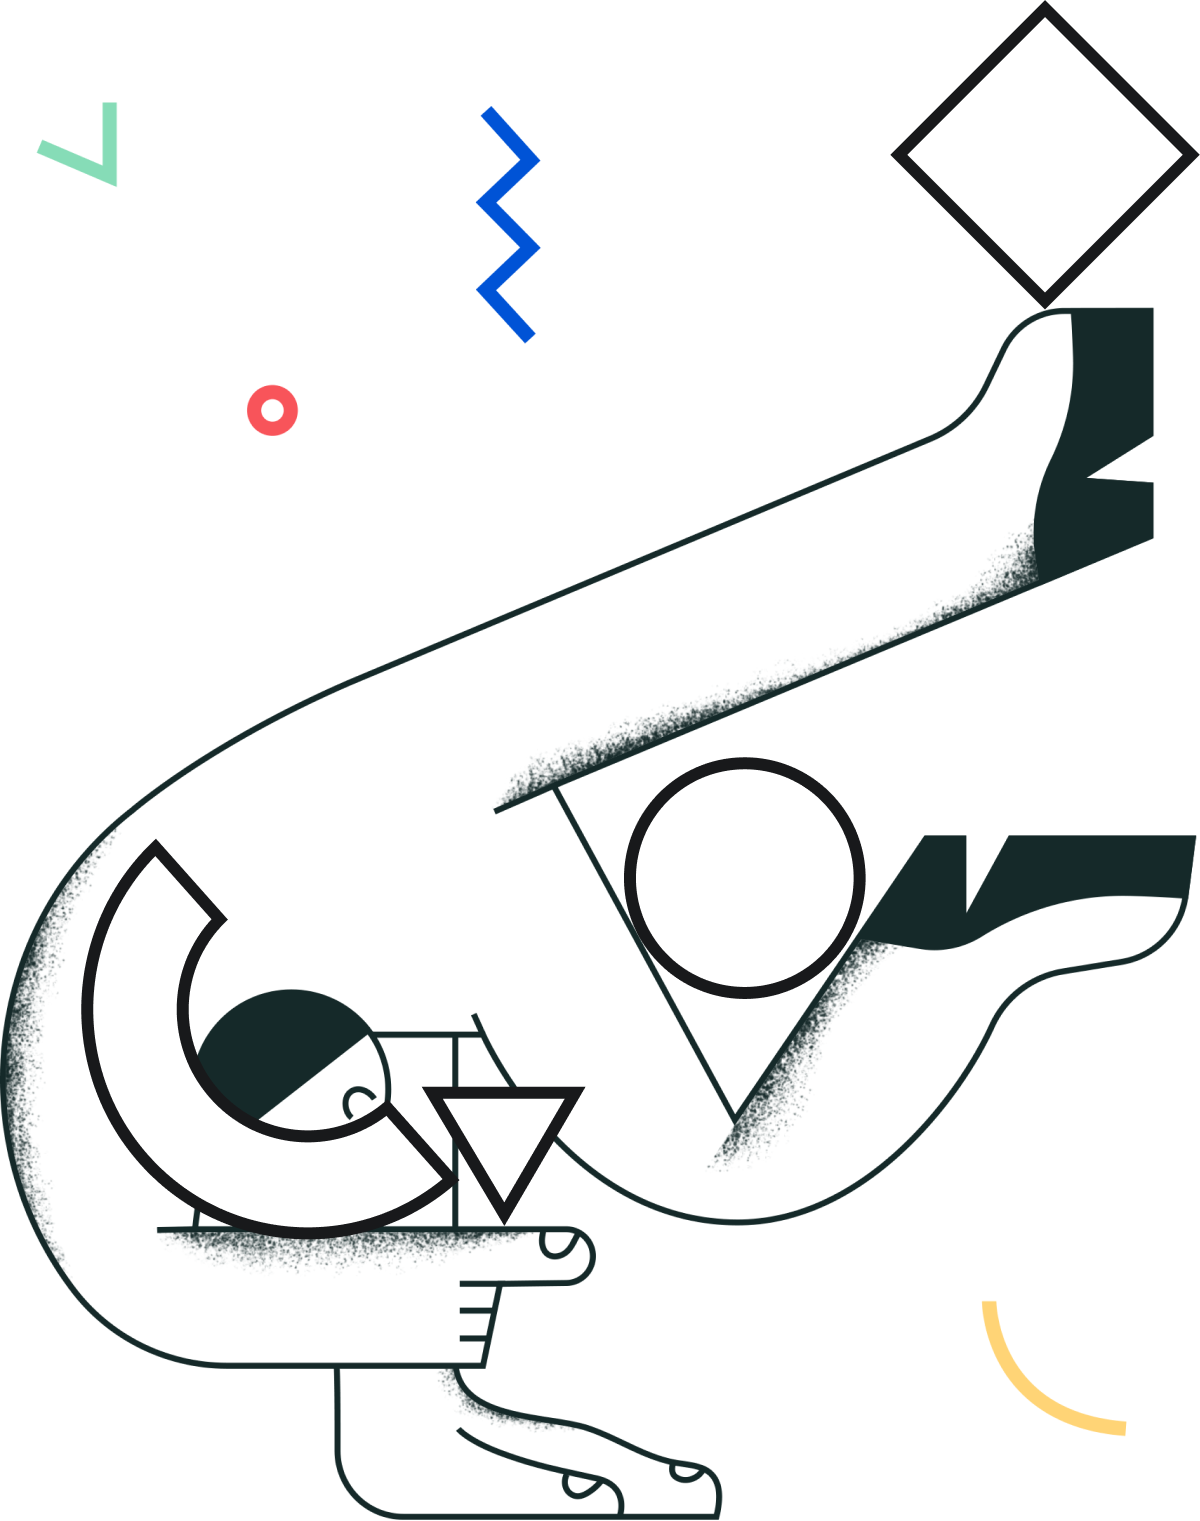
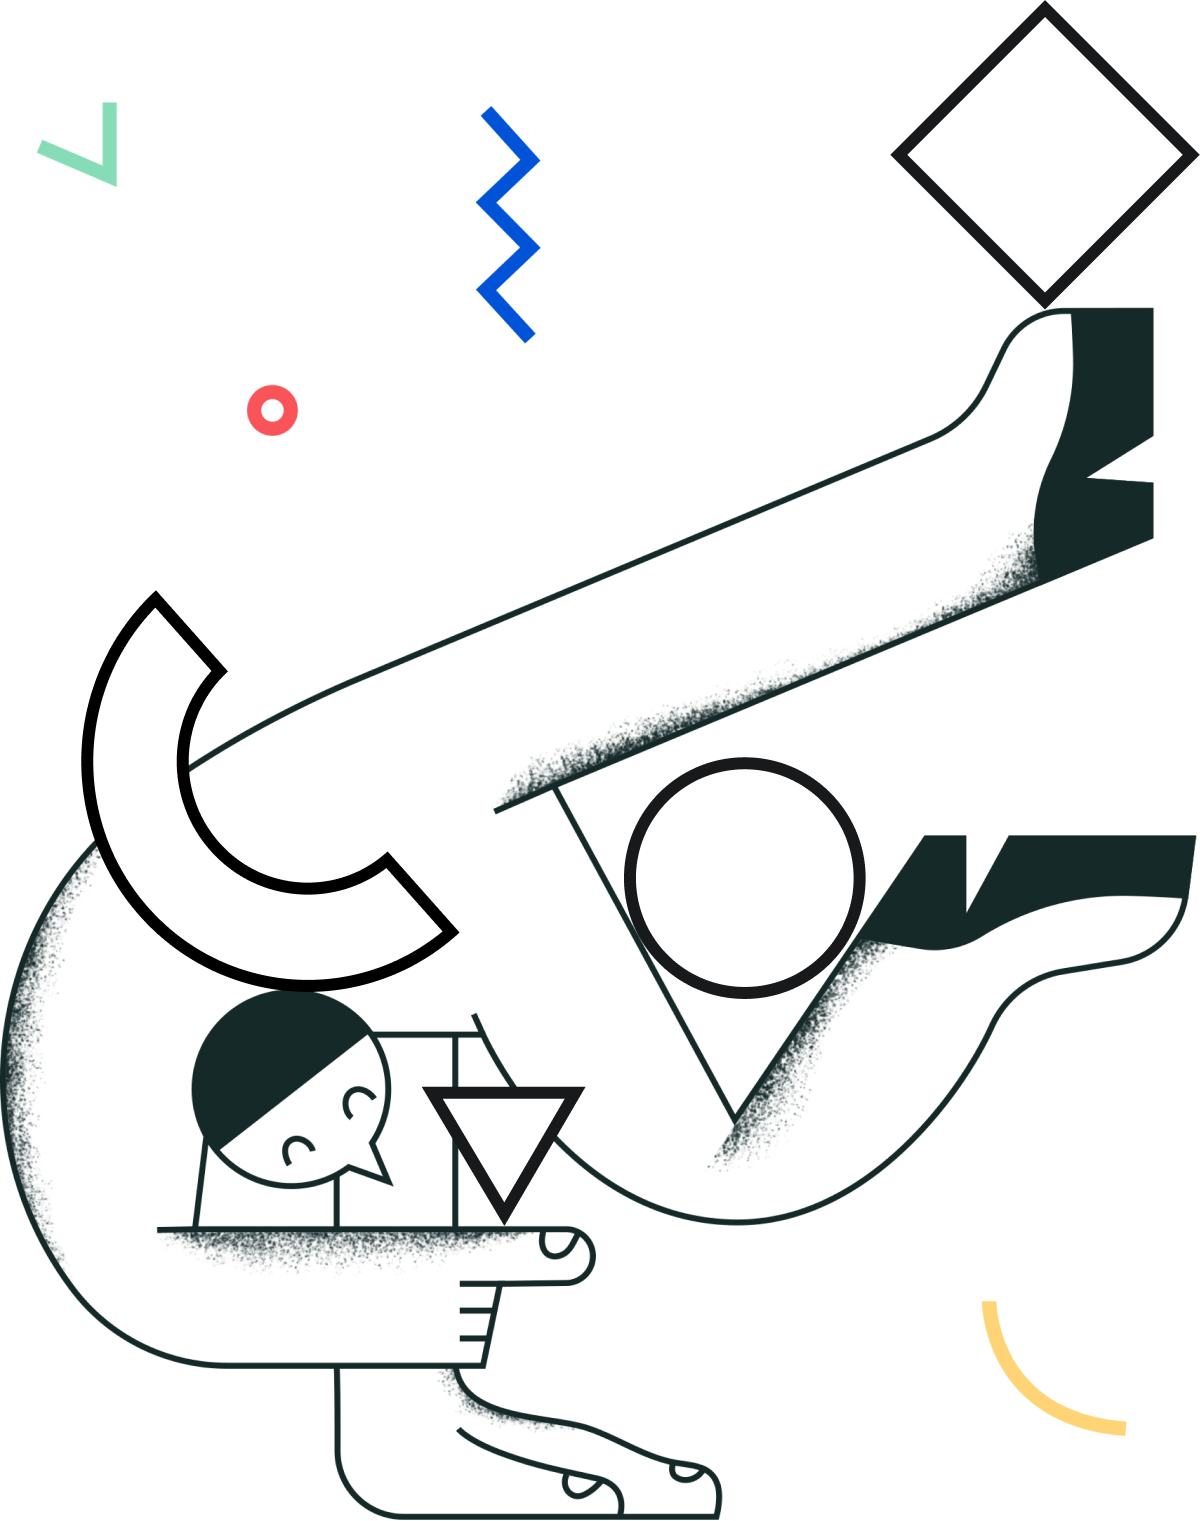
fix: COM-1414 - заменяет картинку на processes; - меняет псевдокласс на более надежный; - убирает overflow-x, что бы работал position: sticky

Changed region(s): [[0.0617, 0.3708, 0.4008, 0.8343]]

diff --git a/components/Footer/DoubleBottom/Addresses/Addresses.styles.js b/components/Footer/DoubleBottom/Addresses/Addresses.styles.js
@@ -20,7 +20,7 @@ const base = ({ breakpoints: { desktop, tablet, mobile }, colors }) => css`
     color: #7E8FA4;
   }
 
-  .address-item:nth-child(3) .address {
+  .address-item:nth-of-type(3) .address {
     margin-top: ${calcRem(40)};
   }
 
@@ -41,11 +41,11 @@ const base = ({ breakpoints: { desktop, tablet, mobile }, colors }) => css`
       margin-top: ${calcRem(47)};
     }
 
-    .address-item:nth-child(1) {
+    .address-item:nth-of-type(1) {
       margin-right: ${calcRem(58)};
     }
 
-    .address-item:nth-child(2) {
+    .address-item:nth-of-type(2) {
       margin-right: ${calcRem(50)};
     }
   }
@@ -67,11 +67,11 @@ const base = ({ breakpoints: { desktop, tablet, mobile }, colors }) => css`
       margin-top: ${calcRem(31)};
     }
 
-    .address-item:nth-child(1) {
+    .address-item:nth-of-type(1) {
       margin-right: ${calcRem(42)};
     }
 
-    .address-item:nth-child(2) {
+    .address-item:nth-of-type(2) {
       margin-right: ${calcRem(38)};
     }
   }
@@ -104,7 +104,7 @@ const base = ({ breakpoints: { desktop, tablet, mobile }, colors }) => css`
       margin-top: ${calcRem(24)};
     }
 
-    .address-item:nth-child(3) .address {
+    .address-item:nth-of-type(3) .address {
       margin-top: ${calcRem(0)};
     }
   }

diff --git a/components/way-of-work/Transparency/Highlight/Highlight.styles.js b/components/way-of-work/Transparency/Highlight/Highlight.styles.js
@@ -107,7 +107,7 @@ const base = ({ breakpoints: { desktop, tablet, mobile }}) => css`
     }
 
     .arc {
-      top: ${calcRem(219)};
+      top: ${calcRem(149)};
       left: ${calcRem(20)};
       width: ${calcRem(95)};
     }
@@ -143,7 +143,7 @@ const base = ({ breakpoints: { desktop, tablet, mobile }}) => css`
     }
 
     .arc {
-      top: ${calcRem(281)};
+      top: ${calcRem(198)};
       left: ${calcRem(27)};
       width: ${calcRem(125)};
     }

diff --git a/components/Layout/Layout.styles.js b/components/Layout/Layout.styles.js
@@ -31,10 +31,6 @@ export const base = css`
     border: 0;
   }
 
-  #main {
-    overflow-x: hidden;
-  }
-
   ul {
     list-style: none;
   }
